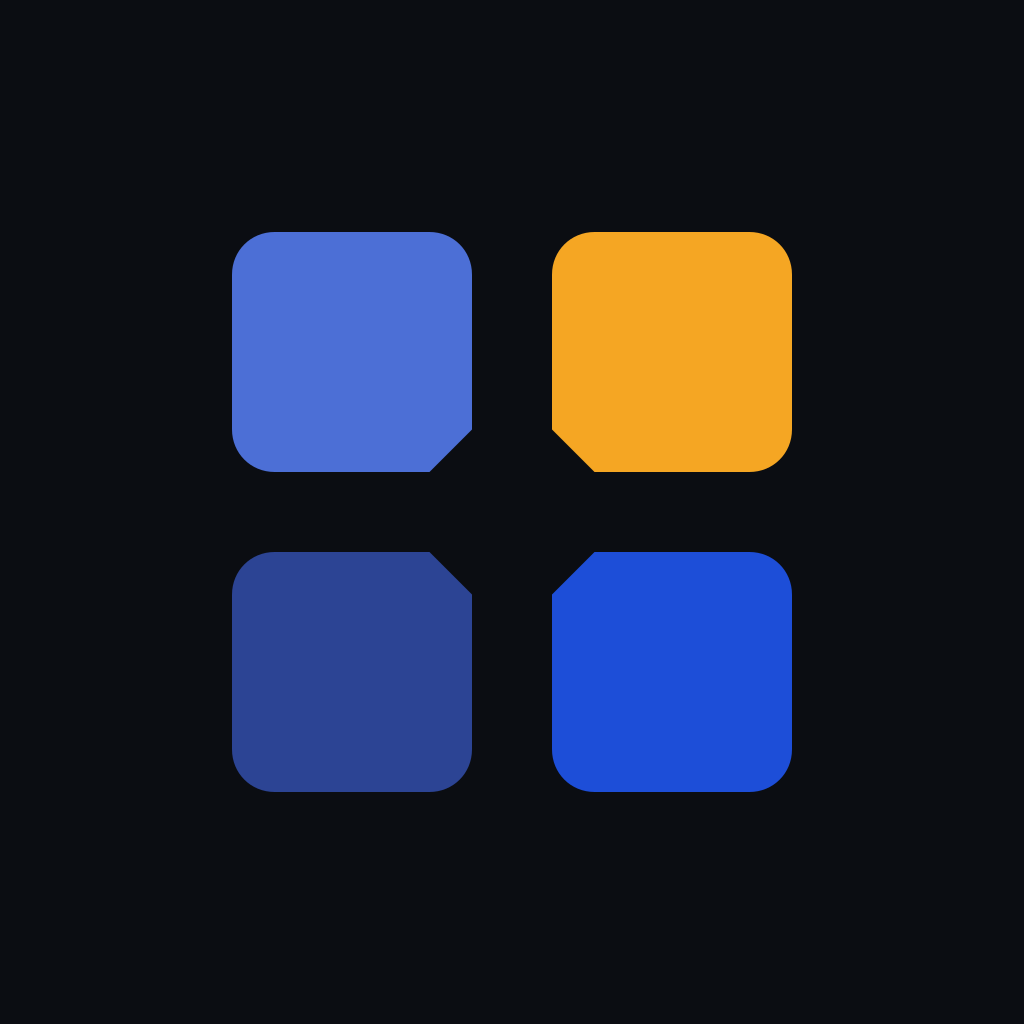
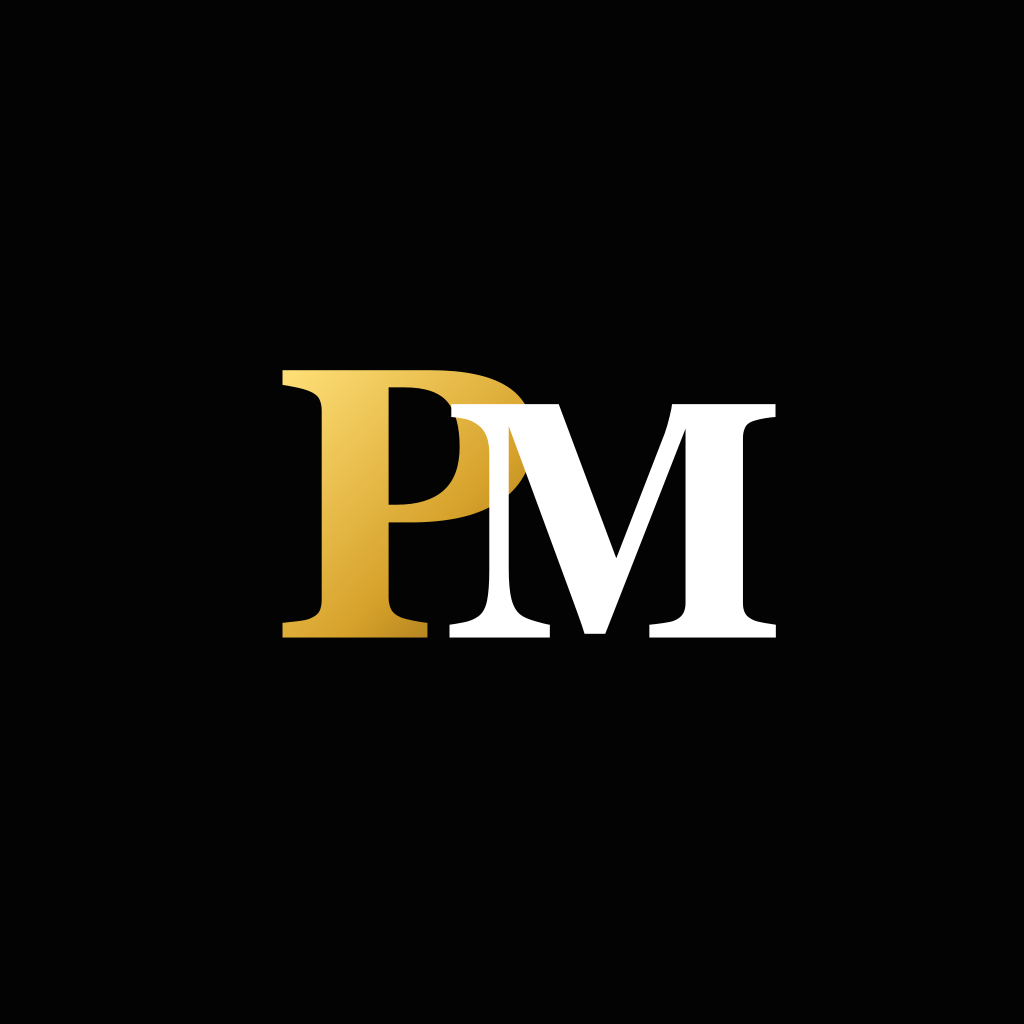
Revert "Restore PaMarket blue brand assets"
This reverts commit 0657b37d490df67536b8b090e44523bc74015b73.

Changed region(s): [[0.2188, 0.2188, 0.7812, 0.7812]]

diff --git a/apps/mobile/components/BrandLogo.tsx b/apps/mobile/components/BrandLogo.tsx
@@ -1,6 +1,6 @@
 import type { StyleProp, TextStyle, ViewStyle } from "react-native";
 import { Text, View } from "react-native";
-import Svg, { Path } from "react-native-svg";
+import Svg, { Defs, LinearGradient, Path, Rect, Stop, Text as SvgText } from "react-native-svg";
 
 import { useThemedStyles } from "../lib/theme-provider";
 
@@ -11,20 +11,43 @@ type BrandSymbolProps = {
   style?: StyleProp<ViewStyle>;
 };
 
-export function BrandSymbol({ size = 48, monochrome = false, style }: BrandSymbolProps) {
+export function BrandSymbol({ size = 48, monochrome = false, contained = false, style }: BrandSymbolProps) {
   const palette = useThemedStyles((color) => color);
-  const topLeft = monochrome ? palette.textOnBrand : palette.brand;
-  const topRight = monochrome ? palette.textOnBrand : palette.gold;
-  const bottomLeft = monochrome ? palette.textOnBrand : palette.brandDark;
-  const bottomRight = monochrome ? palette.textOnBrand : palette.info;
+  const gold = monochrome ? palette.textOnBrand : "url(#pmGold)";
 
   return (
     <View style={[{ width: size, height: size }, style]}>
       <Svg width={size} height={size} viewBox="0 0 512 512" accessibilityLabel="PaMarket logo">
-        <Path fill={topLeft} d="M66 32h124c19 0 34 15 34 34v124l-34 34H66c-19 0-34-15-34-34V66c0-19 15-34 34-34Z" />
-        <Path fill={topRight} d="M322 32h124c19 0 34 15 34 34v124c0 19-15 34-34 34H322l-34-34V66c0-19 15-34 34-34Z" />
-        <Path fill={bottomLeft} d="M66 288h124l34 34v124c0 19-15 34-34 34H66c-19 0-34-15-34-34V322c0-19 15-34 34-34Z" />
-        <Path fill={bottomRight} d="M322 288h124c19 0 34 15 34 34v124c0 19-15 34-34 34H322c-19 0-34-15-34-34V322l34-34Z" />
+        <Defs>
+          <LinearGradient id="pmGold" x1="0" y1="0" x2="1" y2="1">
+            <Stop offset="0" stopColor="#FFE078" />
+            <Stop offset="0.58" stopColor={palette.gold} />
+            <Stop offset="1" stopColor={palette.goldDark} />
+          </LinearGradient>
+        </Defs>
+        {contained ? <Rect width={512} height={512} rx={116} fill={palette.brandDark} /> : null}
+        <SvgText
+          x={186}
+          y={338}
+          textAnchor="middle"
+          fontFamily="Georgia, Times New Roman, serif"
+          fontSize={252}
+          fontWeight="700"
+          fill={gold}
+        >
+          P
+        </SvgText>
+        <SvgText
+          x={324}
+          y={338}
+          textAnchor="middle"
+          fontFamily="Georgia, Times New Roman, serif"
+          fontSize={220}
+          fontWeight="700"
+          fill={palette.textOnBrand}
+        >
+          M
+        </SvgText>
       </Svg>
     </View>
   );
@@ -38,6 +61,7 @@ type BrandWordmarkProps = {
 
 export function BrandWordmark({ size = 26, onBrand = false, style }: BrandWordmarkProps) {
   const palette = useThemedStyles((color) => color);
+  const marketColor = onBrand ? palette.textOnBrand : palette.brand;
 
   return (
     <Text
@@ -45,17 +69,17 @@ export function BrandWordmark({ size = 26, onBrand = false, style }: BrandWordma
       accessibilityLabel="PaMarket"
       style={[
         {
-          color: onBrand ? palette.textOnBrand : palette.brand,
+          color: marketColor,
           fontSize: size,
           fontWeight: "900",
-          letterSpacing: -1,
+          letterSpacing: 0,
           lineHeight: Math.round(size * 1.2),
         },
         style,
       ]}
     >
       <Text style={{ color: palette.gold }}>Pa</Text>
-      <Text>Market</Text>
+      <Text style={{ color: marketColor }}>Market</Text>
     </Text>
   );
 }

diff --git a/apps/mobile/app/(tabs)/index.tsx b/apps/mobile/app/(tabs)/index.tsx
@@ -37,9 +37,7 @@ const BUSINESS_COLUMNS =
   "id,owner_user_id,name,logo,category,province,city,status,verification_level";
 
 const RAIL_CARD_WIDTH = 160;
-const COMPACT_RAIL_CARD_WIDTH = 122;
 const CITY_STORAGE_KEY = "pamarket.home-city-filter";
-const RECENTLY_POSTED_WINDOW_MS = 2 * 60 * 60 * 1000;
 
 // Horizontal rail of ListingCards with a SectionHeader — used for Featured,
 // Recently posted, and Near-<city> sections.
@@ -52,7 +50,6 @@ function ListingRail({
   onSeeAll,
   onPressListing,
   onToggleSave,
-  compact = false,
 }: {
   title: string;
   subtitle?: string;
@@ -62,7 +59,6 @@ function ListingRail({
   onSeeAll: () => void;
   onPressListing: (listing: Listing) => void;
   onToggleSave: (listing: Listing) => void;
-  compact?: boolean;
 }) {
   const styles = useThemedStyles(buildStyles);
   if (!listings.length) return null;
@@ -74,8 +70,7 @@ function ListingRail({
           <ListingCard
             key={listing.id}
             listing={listing}
-            width={compact ? COMPACT_RAIL_CARD_WIDTH : RAIL_CARD_WIDTH}
-            compact={compact}
+            width={RAIL_CARD_WIDTH}
             saved={savedIds.has(listing.id)}
             onToggleSave={() => onToggleSave(listing)}
             verified={verifiedSellerIds.has(listing.seller_id)}
@@ -252,8 +247,8 @@ export default function HomeScreen() {
   const featured = useMemo(() => filtered.filter(isFeatured).slice(0, 12), [filtered]);
 
   const recent = useMemo(() => {
-    const cutoff = Date.now() - RECENTLY_POSTED_WINDOW_MS;
-    return filtered.filter((l) => new Date(l.created_at).getTime() >= cutoff).slice(0, 12);
+    const dayAgo = Date.now() - 24 * 60 * 60 * 1000;
+    return filtered.filter((l) => new Date(l.created_at).getTime() >= dayAgo).slice(0, 12);
   }, [filtered]);
 
   const nearCity = useMemo(() => {
@@ -354,7 +349,6 @@ export default function HomeScreen() {
               onSeeAll={() => router.push("/(tabs)/search")}
               onPressListing={openListing}
               onToggleSave={onToggleSave}
-              compact
             />
 
             {nearCity.length ? (

diff --git a/apps/mobile/lib/theme.ts b/apps/mobile/lib/theme.ts
@@ -56,13 +56,13 @@ export type ColorPalette = {
 
 export const LIGHT_COLORS: ColorPalette = {
   // Brand
-  brand: "#1A3A8F",
-  brandDark: "#122A6B",
-  brandTint: "#EEF2FB",
-  brandTintStrong: "#DDE5F7",
-  gold: "#F5A623",
-  goldDark: "#E2920F",
-  goldTint: "#FFF4E0",
+  brand: "#050505",
+  brandDark: "#000000",
+  brandTint: "#F5F1E8",
+  brandTintStrong: "#E7D8B5",
+  gold: "#D6A12A",
+  goldDark: "#9A6D18",
+  goldTint: "#FFF4D8",
 
   // Surfaces
   bg: "#F4F6FA",
@@ -89,11 +89,11 @@ export const LIGHT_COLORS: ColorPalette = {
   warningTint: "#FEF3C7",
   danger: "#DC2626",
   dangerTint: "#FEE2E2",
-  info: "#1D4ED8",
-  infoTint: "#EAF1FF",
+  info: "#8A6418",
+  infoTint: "#FFF4D8",
 
   // Utility
-  star: "#F5A623",
+  star: "#D6A12A",
   online: "#22C55E",
   skeleton: "#E7EAF1",
   skeletonHighlight: "#F1F3F8",
@@ -105,12 +105,12 @@ export const LIGHT_COLORS: ColorPalette = {
 
 export const DARK_COLORS: ColorPalette = {
   // Brand — lifted slightly for contrast against dark surfaces
-  brand: "#4C6FD6",
-  brandDark: "#2C4494",
-  brandTint: "#1B2340",
-  brandTintStrong: "#242E52",
-  gold: "#F5A623",
-  goldDark: "#E2920F",
+  brand: "#F4D678",
+  brandDark: "#D6A12A",
+  brandTint: "#261F10",
+  brandTintStrong: "#3A2C10",
+  gold: "#F4D678",
+  goldDark: "#D6A12A",
   goldTint: "#3A2C10",
 
   // Surfaces
@@ -138,11 +138,11 @@ export const DARK_COLORS: ColorPalette = {
   warningTint: "#3A2A0A",
   danger: "#EF4444",
   dangerTint: "#3A1414",
-  info: "#3B82F6",
-  infoTint: "#15233E",
+  info: "#F4D678",
+  infoTint: "#2A220F",
 
   // Utility
-  star: "#F5A623",
+  star: "#F4D678",
   online: "#22C55E",
   skeleton: "#1F222C",
   skeletonHighlight: "#282C38",

diff --git a/apps/mobile/app.config.ts b/apps/mobile/app.config.ts
@@ -61,7 +61,7 @@ export default ({ config }: ConfigContext): ExpoConfig =>
     versionCode: 110,
     googleServicesFile: "./google-services.json",
     adaptiveIcon: {
-      backgroundColor: "#F4F6FA",
+      backgroundColor: "#030303",
       foregroundImage: "./assets/android-icon-foreground.png",
       monochromeImage: "./assets/android-icon-monochrome.png",
     },
@@ -95,10 +95,10 @@ export default ({ config }: ConfigContext): ExpoConfig =>
     [
       "expo-splash-screen",
       {
-        backgroundColor: "#FFFFFF",
-        image: "./assets/splash-icon.png",
+        backgroundColor: "#030303",
+        image: "./assets/splash-icon-dark.png",
         dark: {
-          backgroundColor: "#0B0D12",
+          backgroundColor: "#030303",
           image: "./assets/splash-icon-dark.png",
         },
         imageWidth: 280,
@@ -109,7 +109,7 @@ export default ({ config }: ConfigContext): ExpoConfig =>
       "expo-notifications",
       {
         icon: "./assets/notification-icon.png",
-        color: "#1A3A8F",
+        color: "#D6A12A",
       },
     ],
     "expo-image",
